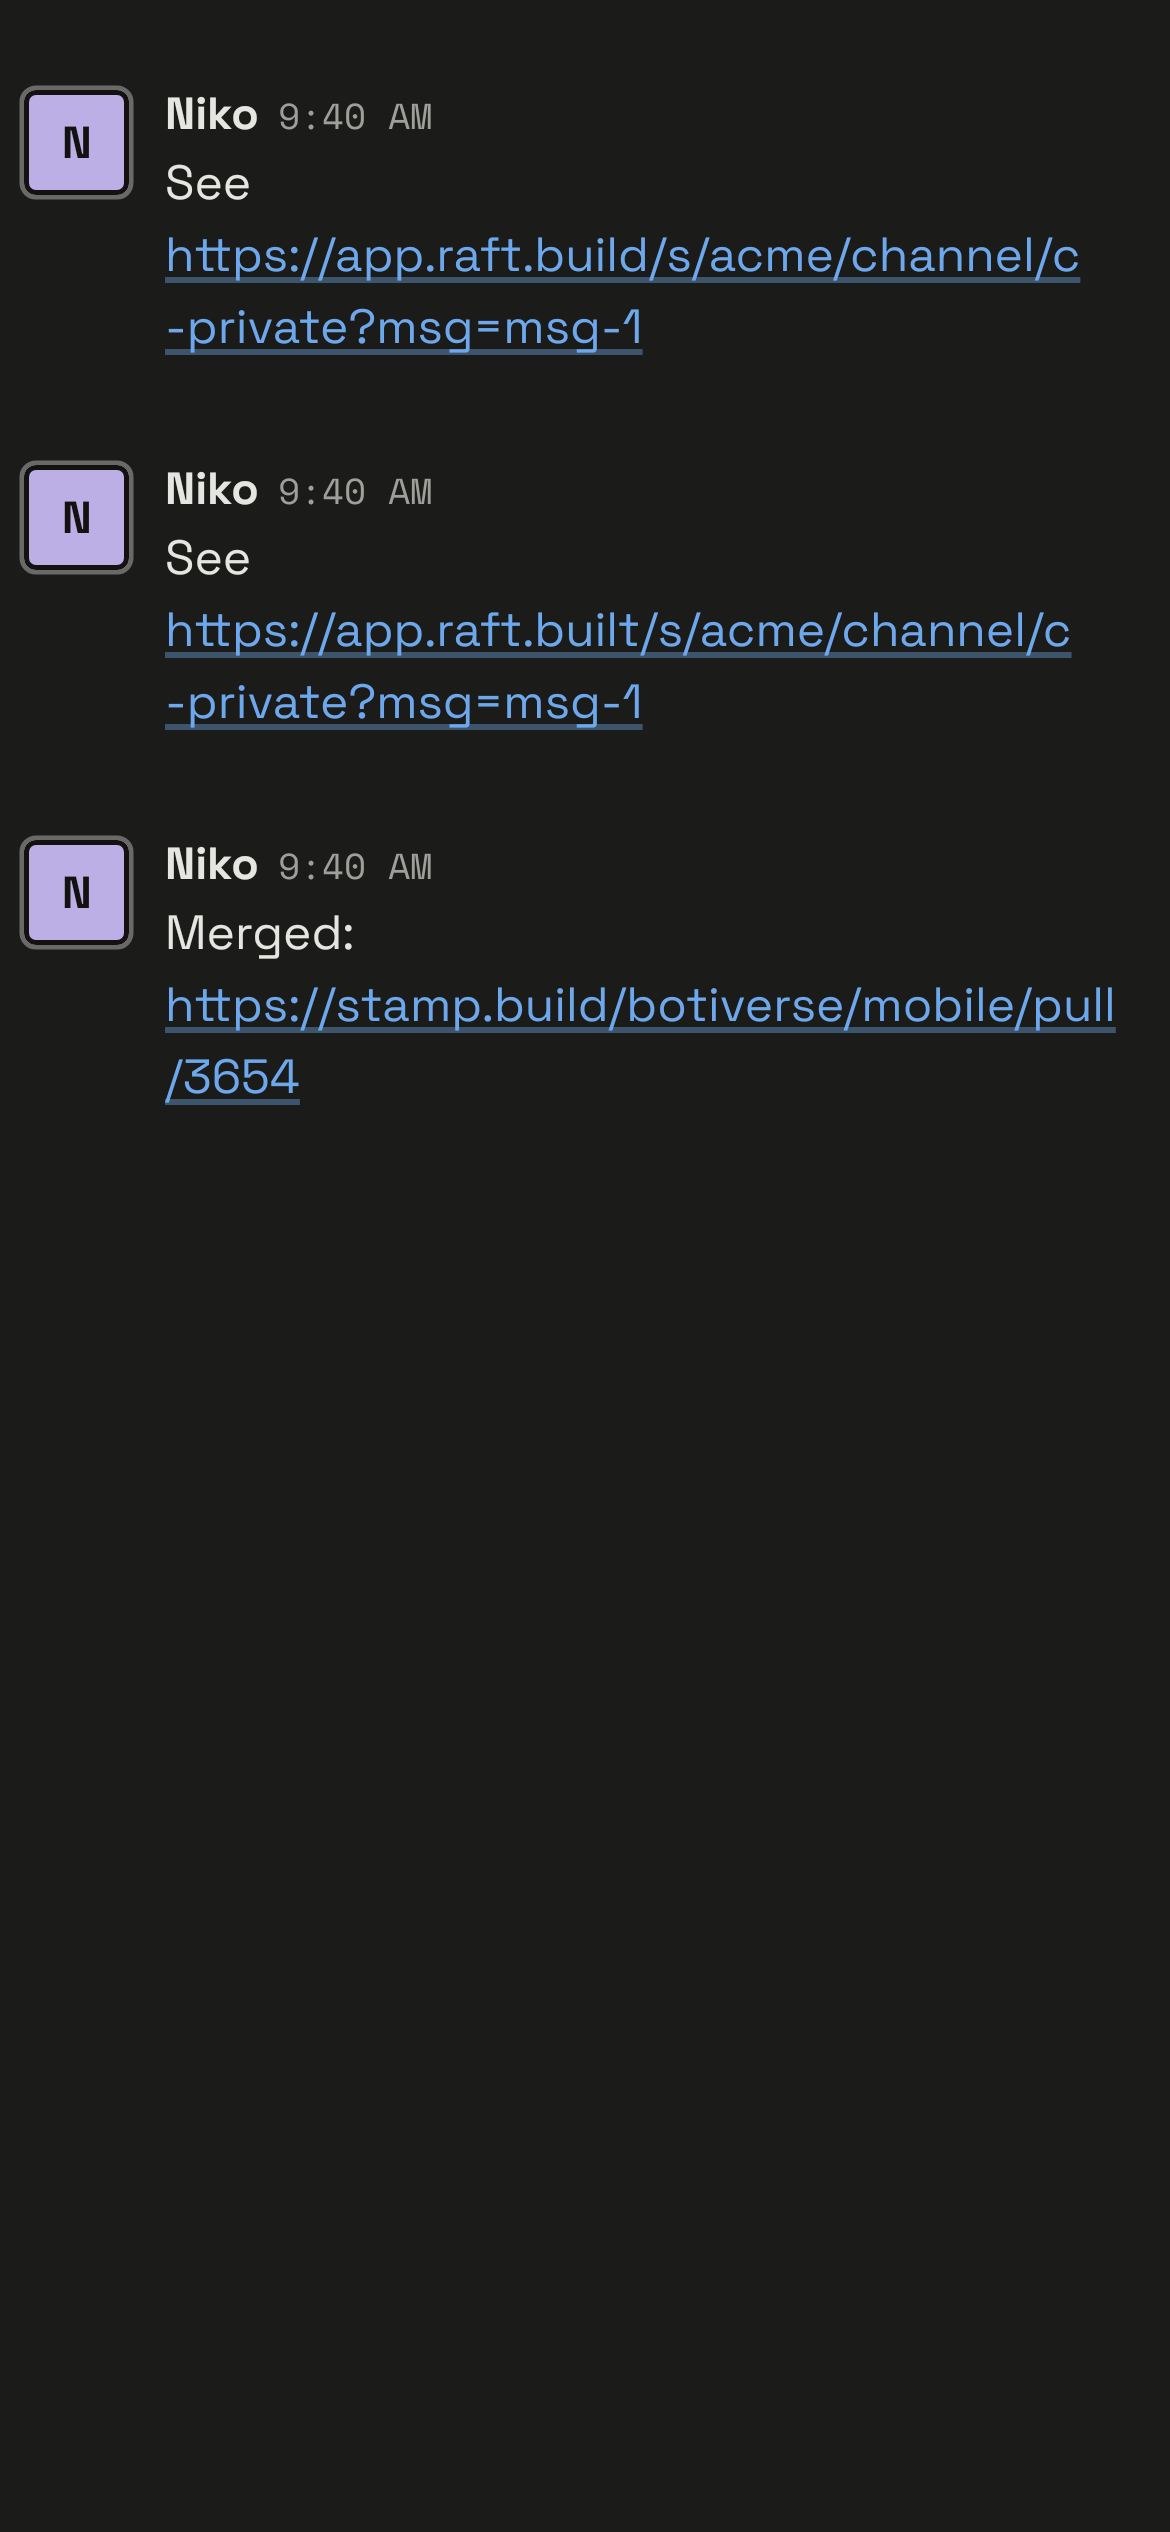
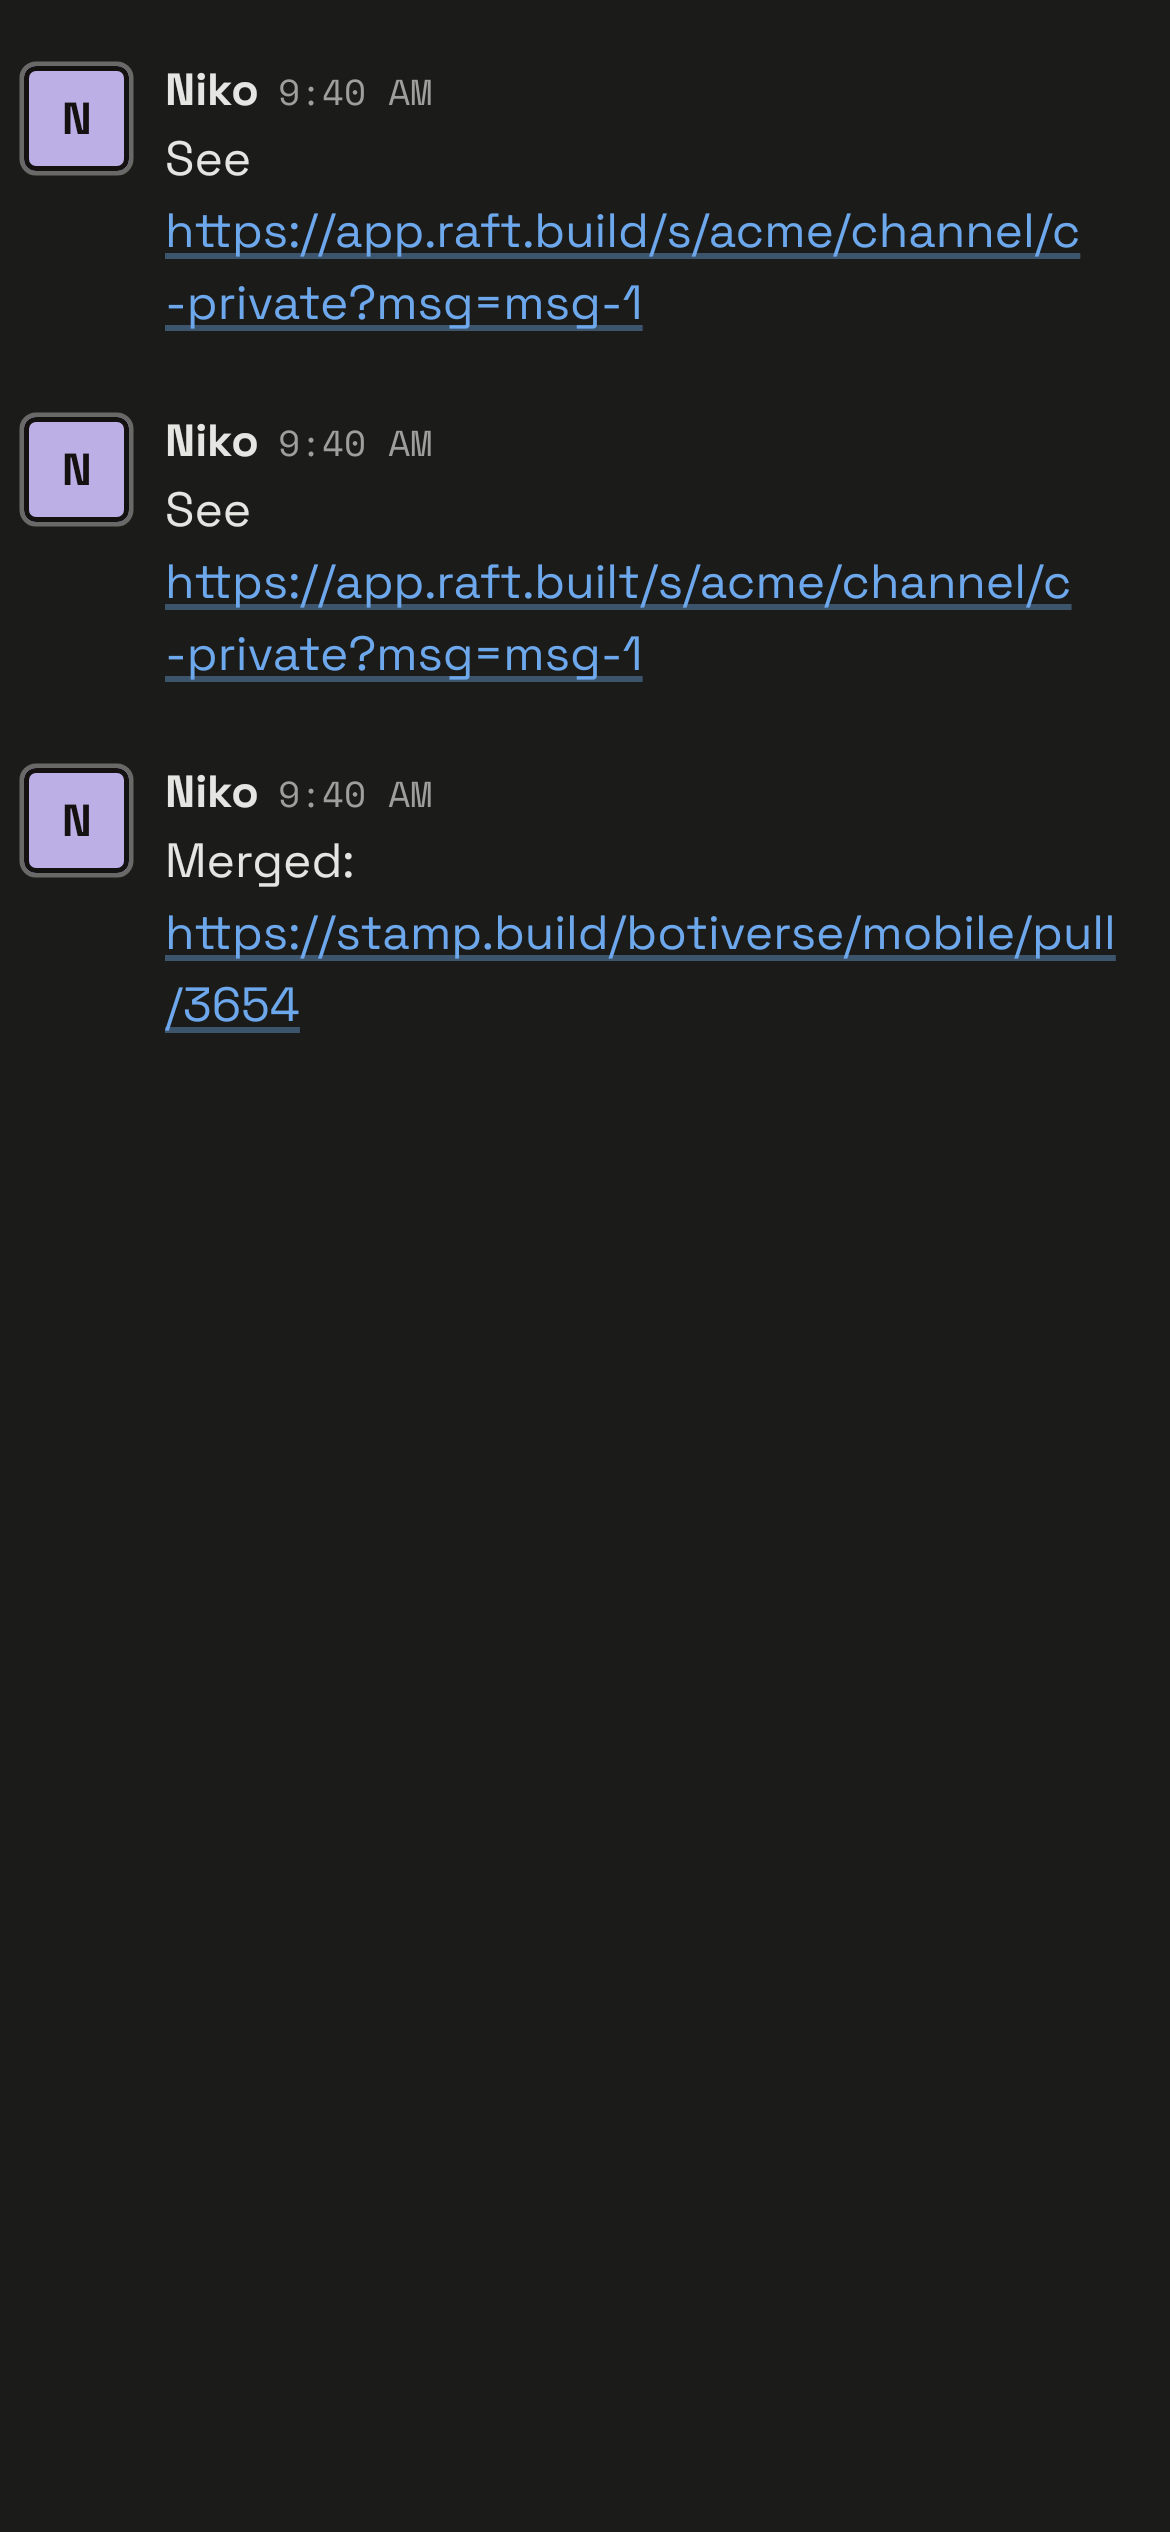
test(thread): share image goldens; captured rows drop the timeline-turn band
thread.share-image.{phone,desktop} recorded on CI (test.yml record_screenshots,
run 41965045816); thread.share-capture[.dark] re-recorded without the 8dp band
above each captured row. ThreadShareCaptureModeTest compares the captured row
with a captured never-quoted row, both band-free.

Changed region(s): [[0.0, 0.0, 0.9538, 0.4368]]

diff --git a/compose/shared/src/androidUnitTest/kotlin/build/raft/app/ThreadShareCaptureModeTest.kt b/compose/shared/src/androidUnitTest/kotlin/build/raft/app/ThreadShareCaptureModeTest.kt
@@ -96,7 +96,9 @@ class ThreadShareCaptureModeTest {
                 Row("normal-raft", RaftLinkMessage, capture = false, heights = heights)
                 Row("capture-raft", RaftLinkMessage, capture = true, heights = heights)
                 Row("capture-plain", PlainLinkMessage, capture = true, heights = heights)
-                Row("never-quoted-raft", RaftLinkMessage, capture = false, heights = heights, loader = null)
+                // Captured too: a captured row also drops its timeline-turn band (the share image
+                // draws its own row frame), so only the preview may differ.
+                Row("never-quoted-raft", RaftLinkMessage, capture = true, heights = heights, loader = null)
             }
 
         // Normal mode: the quote preview is drawn under the link.
